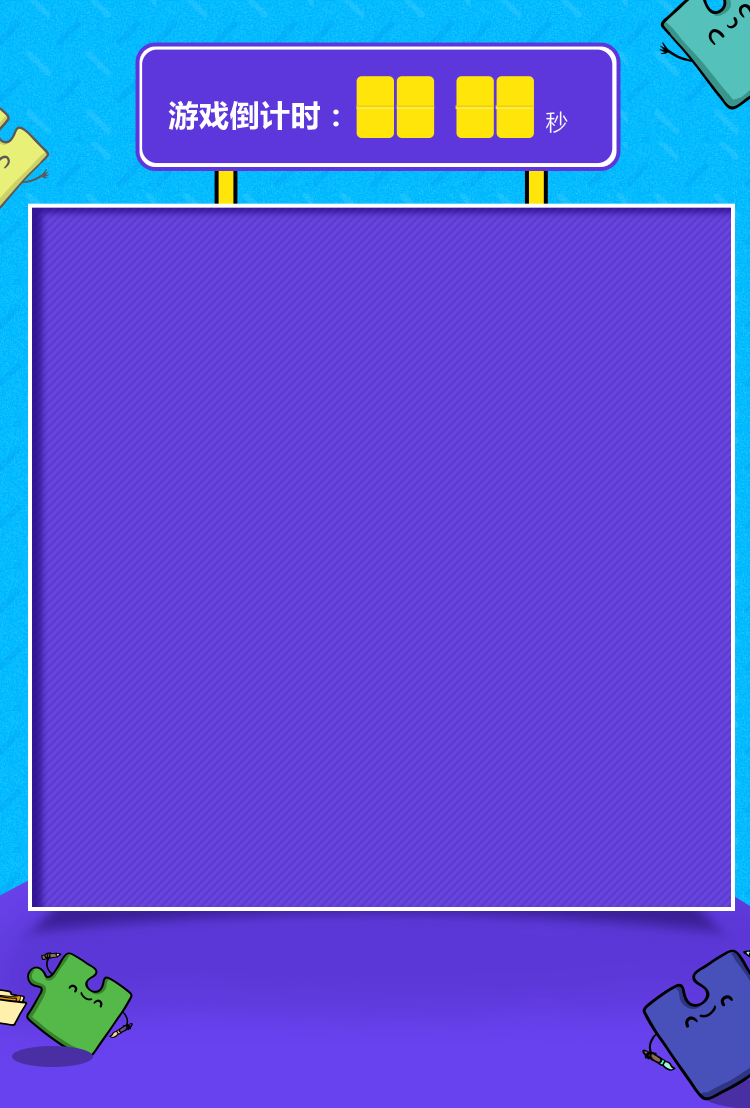
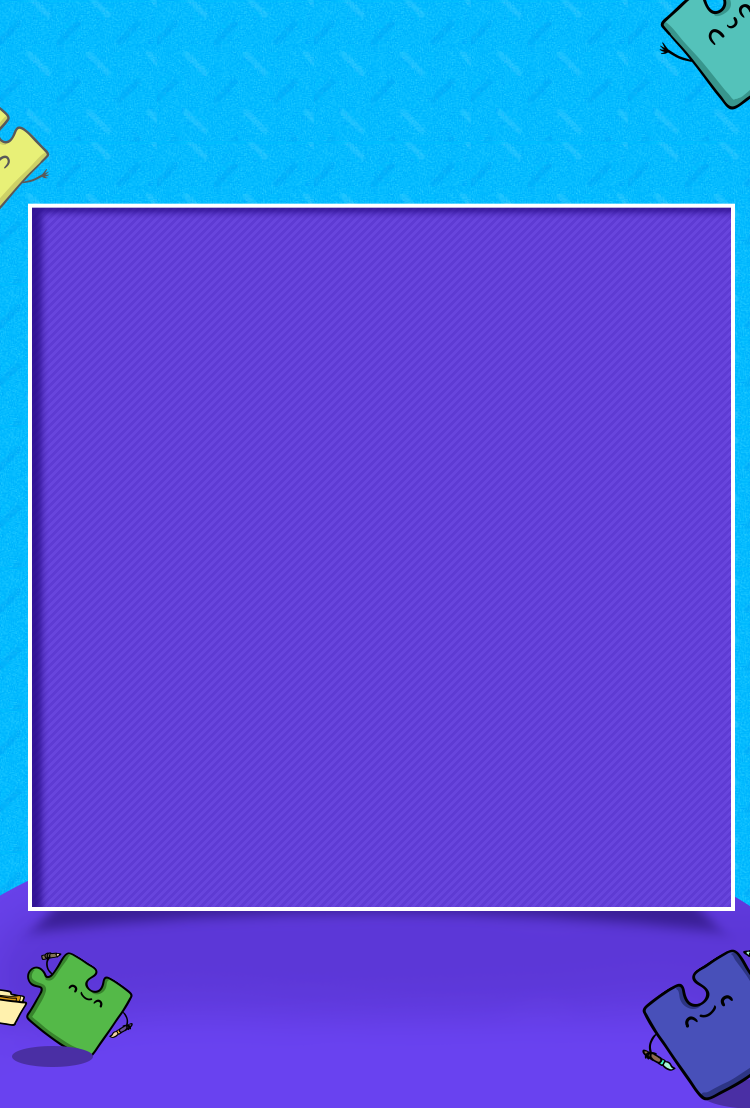
feat s2

Changed region(s): [[0.1533, 0.0307, 0.828, 0.1841]]

diff --git a/styles/common.css b/styles/common.css
@@ -1,1 +1,1 @@
-@import url(../js/lib/animate.css);#scene1{width:100%;height:100%;background:url("../img/s1-bg.png") no-repeat 0 0;background-size:100%;position:relative;display:none}#scene1 .man{width:14.08rem;height:10.51733rem;background:url("../img/s1-1.png") no-repeat 0 0;background-size:100%;position:absolute;top:3.79733rem;left:1.28rem}#scene1 .title{width:14.05867rem;height:3.88267rem;background:url("../img/s1-2.png") no-repeat 0 0;background-size:100%;position:absolute;top:1.17333rem;left:1.06667rem}#scene1 .start{width:8.46933rem;height:2.13333rem;background:url("../img/s1-4.png") no-repeat 0 0;background-size:100%;border:none;position:absolute;top:18.77333rem;left:3.84rem}#scene1 .rule{width:2.048rem;height:1.74933rem;background:url("../img/s1-3.png") no-repeat 0 0;background-size:100%;border:none;position:absolute;top:0;right:0}#__bs_notify__{display:none !important}#scene2{width:100%;height:100%;background:url("../img/s2-bg.png") no-repeat 0 0;background-size:100%;display:none;overflow:hidden;position:absolute;top:0;left:0}#scene2 .countdown{width:10.24rem;height:2.77333rem;margin:.85333rem auto .74667rem}#scene2 .jigsaw{width:100%;height:15.04rem;padding-left:.256rem;display:flex;align-items:center;overflow:hidden}#scene2 .jigsaw-container{display:flex;flex-wrap:wrap;position:relative;margin:0 auto;-webkit-appearance:none;-webkit-backface-visibility:hidden;-webkit-transform-style:preserve-3d;transform:translate3d(0, 0, 0)}#scene2 .jigsaw-container .preview{width:100%;height:100%;position:absolute;z-index:2;top:150%;left:0;transition:.25s ease;transition-property:transform, top, opacity;border:3px solid #fff;margin:0 auto;transform:scale(0.3);opacity:0}#scene2 .jigsaw-container .preview.active{top:0;transform:scale(1);opacity:1}#scene2 .img{flex-shrink:0;position:absolute;top:0;left:0;transition:top .5s ease-in-out, left .5s ease-in-out;opacity:1;z-index:1}#scene2 .img.drag-move{opacity:0.7;transition:opacity .3s ease-in-out;z-index:19911125}#scene2 .img.moving{transition:top .3s ease-in-out, left .3s ease-in-out}#scene2 .btn-preview{width:8.46933rem;height:2.13333rem;background:url("../img/s2-1.png") no-repeat 0 0;background-size:100%;border:none;position:absolute;top:20.37333rem;left:3.84rem;opacity:1;transition:.1s;display:none;-webkit-touch-callout:none}#scene2 .btn-preview.inactive{opacity:0}#scene2 .backdrop{position:fixed;width:100%;height:100%;display:block;background:transparent;z-index:-1;transition:.5s}#scene2 .backdrop.active{z-index:1;background:rgba(0,0,0,0.5)}*{box-sizing:border-box;-webkit-tap-highlight-color:transparent}*:focus{outline:none}html,body{padding:0;height:100%;margin:0 auto;background-image:-webkit-gradient(linear, 0% 0%, 0% 75%, from(#20AFFB), to(#6942EB))}body{width:16rem;margin:0 auto}ul,li{margin:0;padding:0;list-style:none}
+@import url(../js/lib/animate.css);#scene1{width:100%;height:100%;background:url("../img/s1-bg.png") no-repeat 0 0;background-size:100%;position:relative;display:none}#scene1 .man{width:14.08rem;height:10.51733rem;background:url("../img/s1-1.png") no-repeat 0 0;background-size:100%;position:absolute;top:3.79733rem;left:1.28rem}#scene1 .title{width:14.05867rem;height:3.88267rem;background:url("../img/s1-2.png") no-repeat 0 0;background-size:100%;position:absolute;top:1.17333rem;left:1.06667rem}#scene1 .start{width:8.46933rem;height:2.13333rem;background:url("../img/s1-4.png") no-repeat 0 0;background-size:100%;border:none;position:absolute;top:18.77333rem;left:3.84rem}#scene1 .rule{width:2.048rem;height:1.74933rem;background:url("../img/s1-3.png") no-repeat 0 0;background-size:100%;border:none;position:absolute;top:0;right:0}#__bs_notify__{display:none !important}#scene2{width:100%;height:100%;background:url("../img/s2-bg.png") no-repeat 0 0;background-size:100%;display:none;overflow:hidden;position:absolute;top:0;left:0}#scene2 .countdown{width:10.368rem;height:3.456rem;margin:0 auto .85333rem;background:url("../img/s2-2.png") no-repeat 0 0;background-size:100%;position:relative;top:.896rem;visibility:hidden;animation-duration:.3s}#scene2 .countdown span{font-family:monospace;top:.74667rem;left:4.82133rem;width:1.6rem;height:1.30133rem;line-height:1.30133rem;letter-spacing:.256rem;display:inline-block;position:absolute;color:#333}#scene2 .countdown span:nth-child(2){left:6.95467rem}#scene2 .jigsaw{width:100%;height:15.04rem;padding-left:.256rem;display:flex;align-items:center;overflow:hidden}#scene2 .jigsaw-container{display:flex;flex-wrap:wrap;position:relative;margin:0 auto;-webkit-appearance:none;-webkit-backface-visibility:hidden;-webkit-transform-style:preserve-3d;transform:translate3d(0, 0, 0)}#scene2 .jigsaw-container .preview{width:100%;height:100%;position:absolute;z-index:2;top:150%;left:0;transition:.25s ease;transition-property:transform, top, opacity;border:3px solid #fff;margin:0 auto;transform:scale(0.3);opacity:0}#scene2 .jigsaw-container .preview.active{top:0;transform:scale(1);opacity:1}#scene2 .img{flex-shrink:0;position:absolute;top:0;left:0;transition:top .5s ease-in-out, left .5s ease-in-out;opacity:1;z-index:1}#scene2 .img.drag-move{opacity:0.7;transition:opacity .3s ease-in-out;z-index:19911125}#scene2 .img.moving{transition:top .3s ease-in-out, left .3s ease-in-out}#scene2 .btn-preview{width:8.46933rem;height:2.13333rem;background:url("../img/s2-1.png") no-repeat 0 0;background-size:100%;border:none;position:absolute;top:20.37333rem;left:3.84rem;opacity:1;transition:.1s;display:none;-webkit-touch-callout:none}#scene2 .btn-preview.inactive{opacity:0}#scene2 .backdrop{position:fixed;width:100%;height:100%;display:block;background:transparent;z-index:-1;transition:.5s}#scene2 .backdrop.active{z-index:1;background:rgba(0,0,0,0.5)}*{box-sizing:border-box;-webkit-tap-highlight-color:transparent}*:focus{outline:none}html,body{padding:0;height:100%;margin:0 auto;background-image:-webkit-gradient(linear, 0% 0%, 0% 75%, from(#20AFFB), to(#6942EB))}body{width:16rem;margin:0 auto}ul,li{margin:0;padding:0;list-style:none}

diff --git a/js/app/Scene2.js b/js/app/Scene2.js
@@ -119,11 +119,15 @@
                 }
 
                 that.$jigsaw.empty().append($container)
+                that.$countdown.html('')
 
                 setTimeout(function () {
                     that.shuffle(function () {
-                        that.setCountdown()
                         that.$btnPreview.show()
+                        that.setCountdown()
+                        that.$countdown
+                            .css('visibility', 'visible')
+                            .addClass('animated bounceInDown')
                         that.aniQueue
                             .add('.btn-preview', 'fadeIn', .3)
                             .start()
@@ -172,7 +176,7 @@
             this.timeout = false
             countdown
                 .on('countdown', function (time) {
-                    that.$countdown.html(time.s)
+                    that.$countdown.html('<span>' + time.m + '</span><span>' + time.s + '</span>')
                 })
                 .on('end', function () {
                     that.timeout = true
@@ -230,6 +234,7 @@
 
             if (this.timeout && !win) {
                 this.countdown.destroy()
+                this.$countdown.html('<span>00</span><span>00</span>')
                 gameWatcher.emit('scene:fail')
             }
             else if (win) {
@@ -279,6 +284,10 @@
 
                 // 打乱坐标
                 positions.sort(function () {
+                    return .5 - Math.random()
+                }).sort(function () {
+                    return .5 - Math.random()
+                }).sort(function () {
                     return .5 - Math.random()
                 })
 

diff --git a/styles/scene2.scss b/styles/scene2.scss
@@ -10,9 +10,35 @@
   left: 0;
 
   .countdown {
-    width: px2rem(480);
-    height: px2rem(130);
-    margin: px2rem(40) auto px2rem(35);
+    width: px2rem(486);
+    height: px2rem(162);
+    margin: 0 auto px2rem(40);
+    background: url("../img/s2-2.png") no-repeat 0 0;
+    background-size: 100%;
+    position: relative;
+    top: px2rem(42);
+    visibility: hidden;
+    animation-duration: .3s;
+
+    span {
+      font-family: monospace;
+      top: px2rem(35);
+      left: px2rem(226);
+      width: px2rem(75);
+      height: px2rem(61);
+      line-height: px2rem(61);
+      letter-spacing: px2rem(12);
+      display: inline-block;
+      position: absolute;
+      color: #333;
+    }
+
+    span:nth-child(1) {
+    }
+
+    span:nth-child(2) {
+      left: px2rem(326);
+    }
   }
 
   .jigsaw {

diff --git a/index.html b/index.html
@@ -15,7 +15,8 @@
 </div>
 
 <div id="scene2">
-    <div class="countdown"></div>
+    <div class="countdown">
+    </div>
     <div class="jigsaw"></div>
     <button class="btn-preview"></button>
 </div>
@@ -40,7 +41,7 @@
             '//img.alicdn.com/bao/uploaded/i2/TB1B0PbNpXXXXbrXVXXXXXXXXXX_!!0-item_pic.jpg',
             '//img.alicdn.com/tps/TB1MSEbMVXXXXa6XFXXXXXXXXXX-360-280.jpg',
         ],
-        time : 113000,
+        time : 15000,
         sizeX: 3,
         sizeY: 3
     }

diff --git a/js/lib/Countdown.js b/js/lib/Countdown.js
@@ -53,7 +53,7 @@
         },
 
         off: function (type, fn) {
-            if(!type) {
+            if (!type) {
                 for (var p in this._events) {
                     if (!this._events.hasOwnProperty(p)) continue;
 

diff --git a/js/main.js b/js/main.js
@@ -1,6 +1,6 @@
 ;(function () {
-    new Scene1()
-    // new Scene2()
+    // new Scene1()
+    new Scene2()
 
     gameWatcher.emit('scene:ready')
 })()
